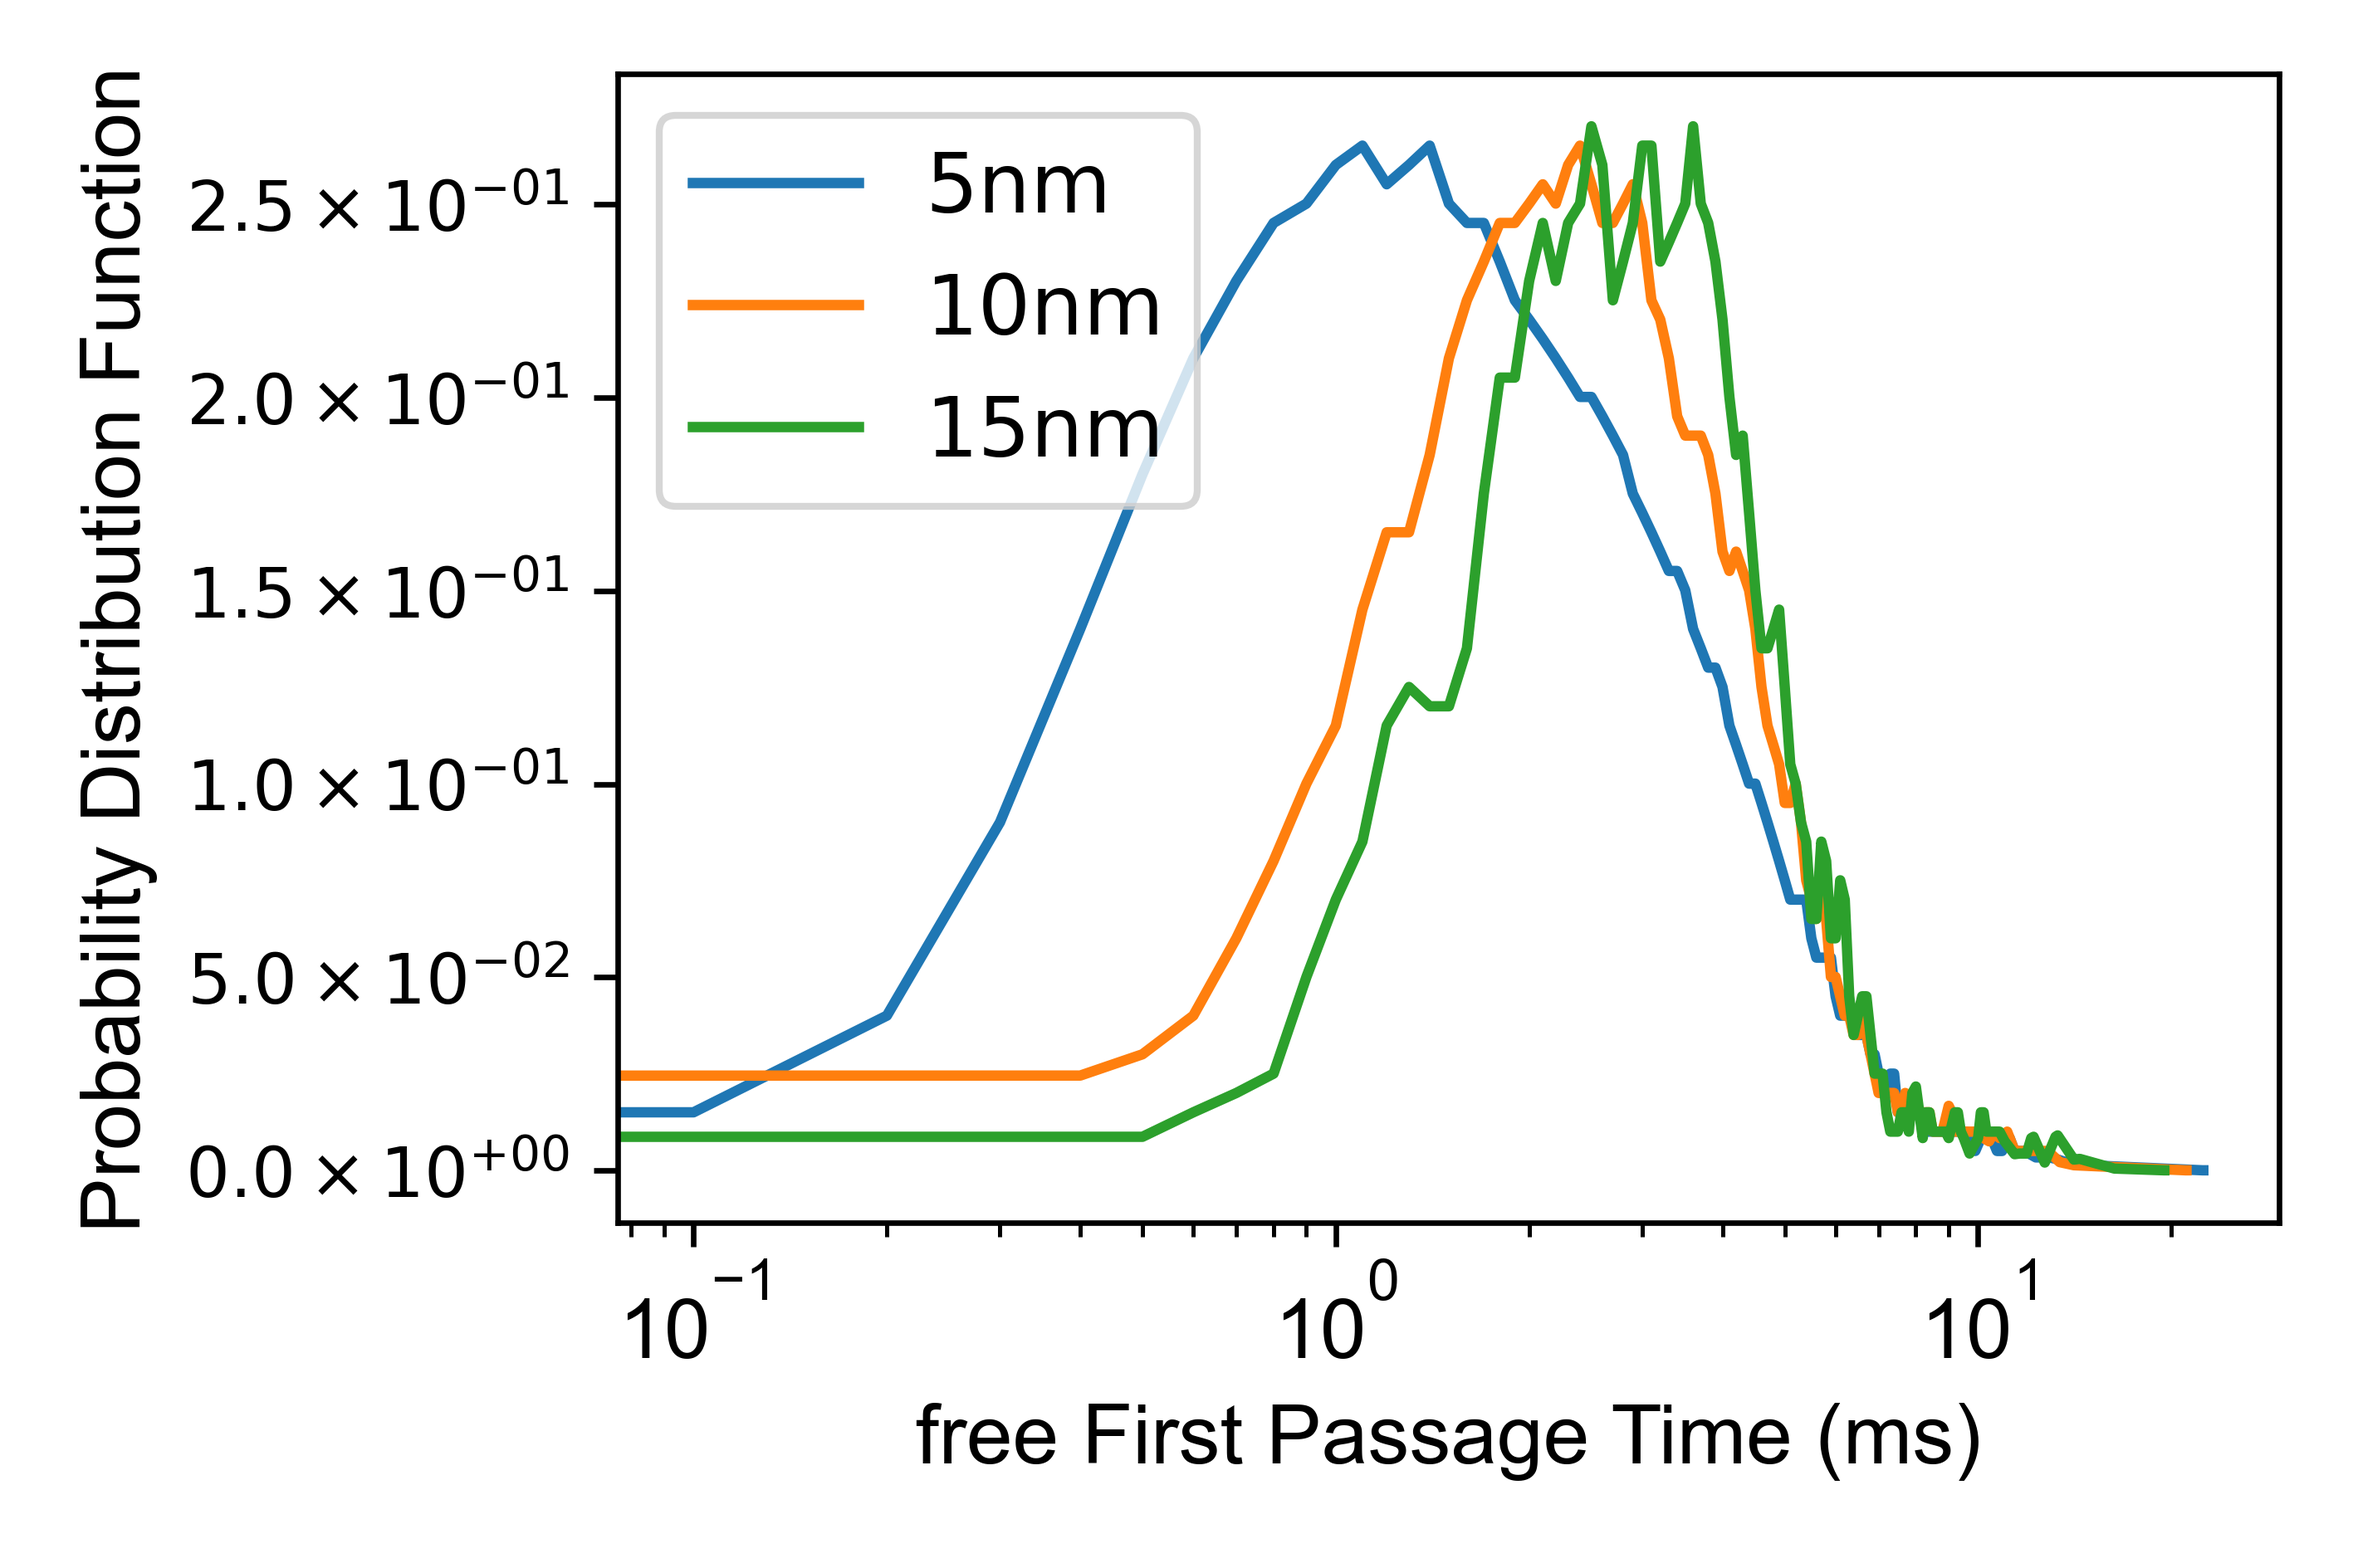
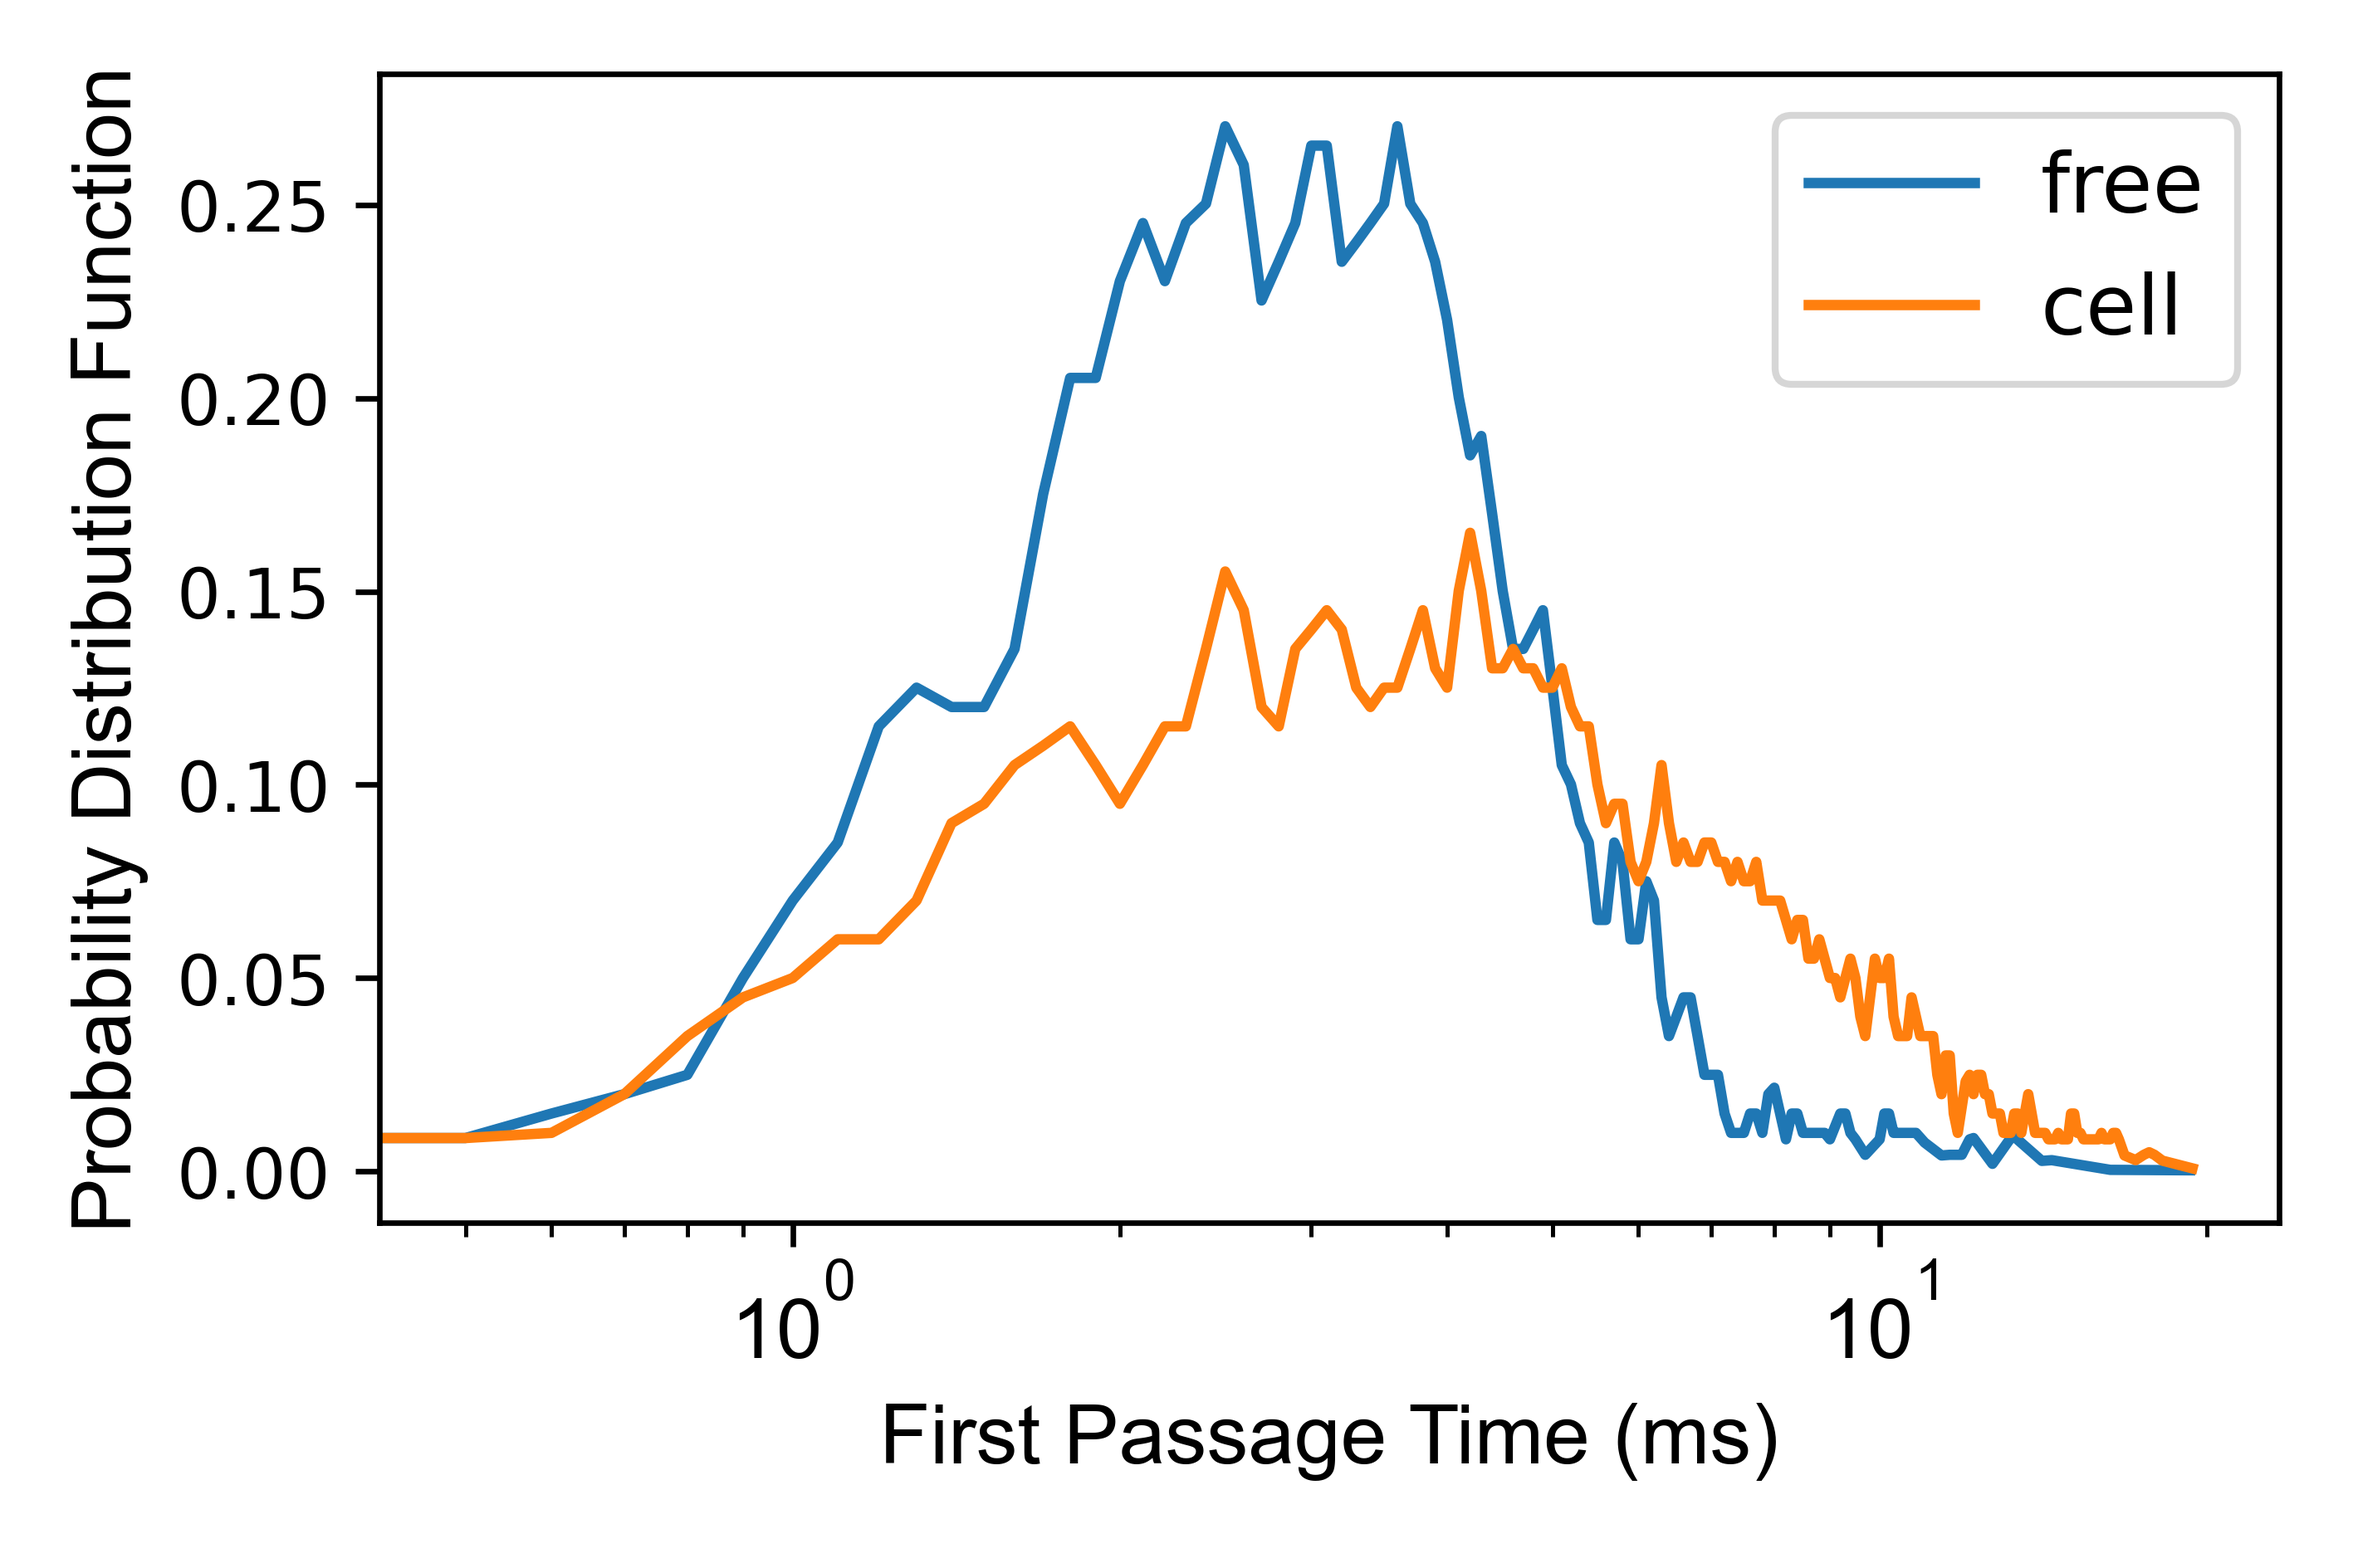
second version of Edgar's plots

diff --git a/external code/python/plotsForEdgar.py b/external code/python/plotsForEdgar.py
@@ -137,67 +137,90 @@ def FPT_CDF_fromData(x, t, setpoint0, setpoint1 = 0, bins = 100):
 # 	plt.show()
 
 
-# files = ["d:/lastline/bioTweezers/20250709/set_02_cell_bead_002", "d:/lastline/bioTweezers/20250709/set_02_free_bead_005"]
+files = ["d:/lastline/bioTweezers/20250709/set_02_free_bead_005", "d:/lastline/bioTweezers/20250709/set_02_cell_bead_002"]
 #smaller files
-files = ["d:/lastline/bioTweezers/20250716/set02_cell_bead_feedback_003", "d:/lastline/bioTweezers/20250805/set04_free_bead_feedback_saturated_008"]
-for file, cellFree in zip(files, ["cell", "free"]):
-	acq = acquisition(file)
-	t, x = acq.nidaq_t_x
+# files = ["d:/lastline/bioTweezers/20250716/set02_cell_bead_feedback_003", "d:/lastline/bioTweezers/20250805/set04_free_bead_feedback_saturated_008"]
 
-	windowSize = int(0.5 / 1e-3)
-	x -= np.convolve(x, np.ones(windowSize)/windowSize, mode = "same")
-	x = x * 1e-6 / 1e-9 #x * Sx, in nm
-
-	counts, vals = np.histogram(x,bins=500)
-	counts = counts / len(x) / (vals[-1] - vals[0])
-	plt.plot(vals[:-1], counts, label = cellFree)
-
-	# Fit a Gaussian to the histogram
-
-	# def gaussian(x, a, mu, sigma):
-	# 	return a * np.exp(-(x - mu) ** 2 / (2 * sigma ** 2))
-
-	# # Use the bin centers for fitting
-	# bin_centers = (vals[:-1] + vals[1:]) / 2
-	# p0 = [counts.max(), bin_centers[np.argmax(counts)], np.std(x)]
-	# params, _ = curve_fit(gaussian, bin_centers, counts, p0=p0)
-
-	# Plot the fitted Gaussian
-	# plt.plot(bin_centers, gaussian(bin_centers, *params), label=f'Gaussian fit ({cellFree})', linestyle='--', color=plt.gca().lines[-1].get_color())
-plt.legend(fontsize=12)
-plt.gcf().set_size_inches(12/2.54, 8/2.54)  # 12cm x 8cm in inches
-plt.xlabel("Position (nm)", fontsize=12, fontname="Arial")
-plt.ylabel("Probability Distribution Function", fontsize=12, fontname="Arial")
-plt.xticks(fontsize=12, fontname="Arial", )
-# Set y-ticks at desired positions (0, 2, 4, 6, 8, 10) * 1e-4
-yticks = np.arange(0, 0.0011, 0.0002)
-plt.yticks(fontsize=12, fontname="Arial")
-# plt.gcf().subplots_adjust(left=0.18)  # Increase left margin to prevent y-label clipping
-# plt.gcf().subplots_adjust(bottom=0.18)  # Increase bottom margin to prevent x-label clipping
-plt.gca().set_yticklabels(["$"+"{:.1e}".format(tick._y).replace("e", "\\times 10^{")+"}$" for tick in plt.gca().yaxis.get_ticklabels()])
-plt.ylabel("Probability Distribution Function", fontsize=12, fontname="Arial")
-plt.xlim(left=-30,right=20)
-plt.tight_layout()
-plt.savefig("d:\\lastline\\bioTweezers\\20250709\\position distribution.png", dpi=600)
-plt.show()
-
-setpoints = [5, 10, 15]
-
-for file, cellFree in zip(files, ["cell", "free"]):
-	acq = acquisition(file)
-	t, x = acq.nidaq_t_x
-	x = x * 1e-6 / 1e-9 #x * Sx, in nm
-	t = t * 1e3#in ms
-
-	windowSize = int(0.5 / 1e-3)
-	x -= np.convolve(x, np.ones(windowSize)/windowSize, mode = "same")
-
-	fpt, cdf = FPT_CDF_fromData(x, t, setpoints, 0, 1000)
-	pdf = np.array([np.gradient(cdf[:,i], fpt[:,i]) for i in range(len(cdf[0]))]).T
-	plt.semilogx(fpt, pdf, label = [f"{i}nm" for i in setpoints])
+def plotForPositionDistribution(fileName):
 	plt.legend(fontsize=12)
 	plt.gcf().set_size_inches(12/2.54, 8/2.54)  # 12cm x 8cm in inches
-	plt.xlabel(f"{cellFree} First Passage Time (ms)", fontsize=12, fontname="Arial")
+	plt.xlabel("Position (nm)", fontsize=12, fontname="Arial")
+	plt.ylabel("Probability Distribution Function", fontsize=12, fontname="Arial")
+	plt.xticks(fontsize=12, fontname="Arial", )
+	# Set y-ticks at desired positions (0, 2, 4, 6, 8, 10) * 1e-4
+	plt.yticks(fontsize=12, fontname="Arial")
+	# plt.gcf().subplots_adjust(left=0.18)  # Increase left margin to prevent y-label clipping
+	# plt.gcf().subplots_adjust(bottom=0.18)  # Increase bottom margin to prevent x-label clipping
+	plt.gca().set_yticklabels(["$"+"{:.1e}".format(tick._y).replace("e", "\\times 10^{")+"}$" for tick in plt.gca().yaxis.get_ticklabels()])
+	plt.ylabel("Probability Distribution Function", fontsize=12, fontname="Arial")
+	plt.xlim(left=-20,right=20)
+	plt.tight_layout()
+	plt.savefig(fileName, dpi=600)
+	plt.yscale("log")
+	plt.tight_layout()
+	plt.savefig(fileName.replace(".png", "_log.png"), dpi=600)
+	plt.show()
+
+for removeDrift in ["", "_drift removed"]:
+	for file, cellFree in zip(files, ["free", "cell"]):
+		acq = acquisition(file)
+		t, x = acq.nidaq_t_x
+
+		windowSize = int(0.5 / 1e-3)
+		if removeDrift == "":
+			x -= np.mean(x)
+		else:
+			x -= np.convolve(x, np.ones(windowSize)/windowSize, mode = "same")
+		x = x * 1e-6 / 1e-9 #x * Sx, in nm
+
+		counts, vals = np.histogram(x,bins=500)
+		counts = counts / len(x) / (vals[-1] - vals[0])
+		if cellFree=="cell":
+			stupidOrangeColor = "#ff7f0e"
+			plt.plot(vals[:-1], counts, color=stupidOrangeColor, label=cellFree)
+		else:
+			plt.plot(vals[:-1], counts, label = cellFree)
+		plotForPositionDistribution(f"d:\\lastline\\bioTweezers\\20250709\\position distribution_{cellFree}{removeDrift}.png")
+for removeDrift in ["", "_drift removed"]:
+	for file, cellFree in zip(files, ["free", "cell"]):
+		acq = acquisition(file)
+		t, x = acq.nidaq_t_x
+
+		windowSize = int(0.5 / 1e-3)
+		if removeDrift == "":
+			x -= np.mean(x)
+		else:
+			x -= np.convolve(x, np.ones(windowSize)/windowSize, mode = "same")
+		x = x * 1e-6 / 1e-9 #x * Sx, in nm
+
+		counts, vals = np.histogram(x,bins=500)
+		counts = counts / len(x) / (vals[-1] - vals[0])
+		if cellFree=="cell":
+			stupidOrangeColor = "#ff7f0e"
+			plt.plot(vals[:-1], counts, color=stupidOrangeColor, label=cellFree)
+		else:
+			plt.plot(vals[:-1], counts, label = cellFree)
+	plotForPositionDistribution(f"d:\\lastline\\bioTweezers\\20250709\\position distribution{removeDrift}.png")
+
+setpoints = [10, 15]
+for setpoint in setpoints:
+	for file, cellFree in zip(files, ["free", "cell"]):
+		acq = acquisition(file)
+		t, x = acq.nidaq_t_x
+		x = x * 1e-6 / 1e-9 #x * Sx, in nm
+		t = t * 1e3#in ms
+
+		
+		windowSize = int(0.5 / 1e-3)
+		x -= np.convolve(x, np.ones(windowSize)/windowSize, mode = "same")
+
+		fpt, cdf = FPT_CDF_fromData(x, t, setpoint, 0, 1000)
+		pdf = np.gradient(cdf, fpt)
+		# pdf = np.array([np.gradient(cdf[:,i], fpt[:,i]) for i in range(len(cdf[0]))]).T
+		plt.semilogx(fpt, pdf, label = cellFree)#[f"{i}nm" for i in setpoints])
+	plt.legend(fontsize=12)
+	plt.gcf().set_size_inches(12/2.54, 8/2.54)  # 12cm x 8cm in inches
+	plt.xlabel(f"First Passage Time (ms)", fontsize=12, fontname="Arial")
 	plt.xticks(fontsize=12, fontname="Arial")
 	# plt.gca().set_yticks([])
 	plt.ylabel("Probability Distribution Function", fontsize=12, fontname="Arial")
@@ -206,7 +229,9 @@ for file, cellFree in zip(files, ["cell", "free"]):
 	plt.tight_layout()
 	plt.savefig("histogram_plot.png", dpi=600)
 	plt.tight_layout()
-	plt.savefig(f"d:\\lastline\\bioTweezers\\20250709\\fpt {cellFree}.png", dpi=600)
+	plt.xlim(.1,20)
+	plt.ylim(-0.007, .32)
+	plt.savefig(f"d:\\lastline\\bioTweezers\\20250709\\fpt_setpoint{setpoint}.png", dpi=600)
 	plt.show()
 
 
